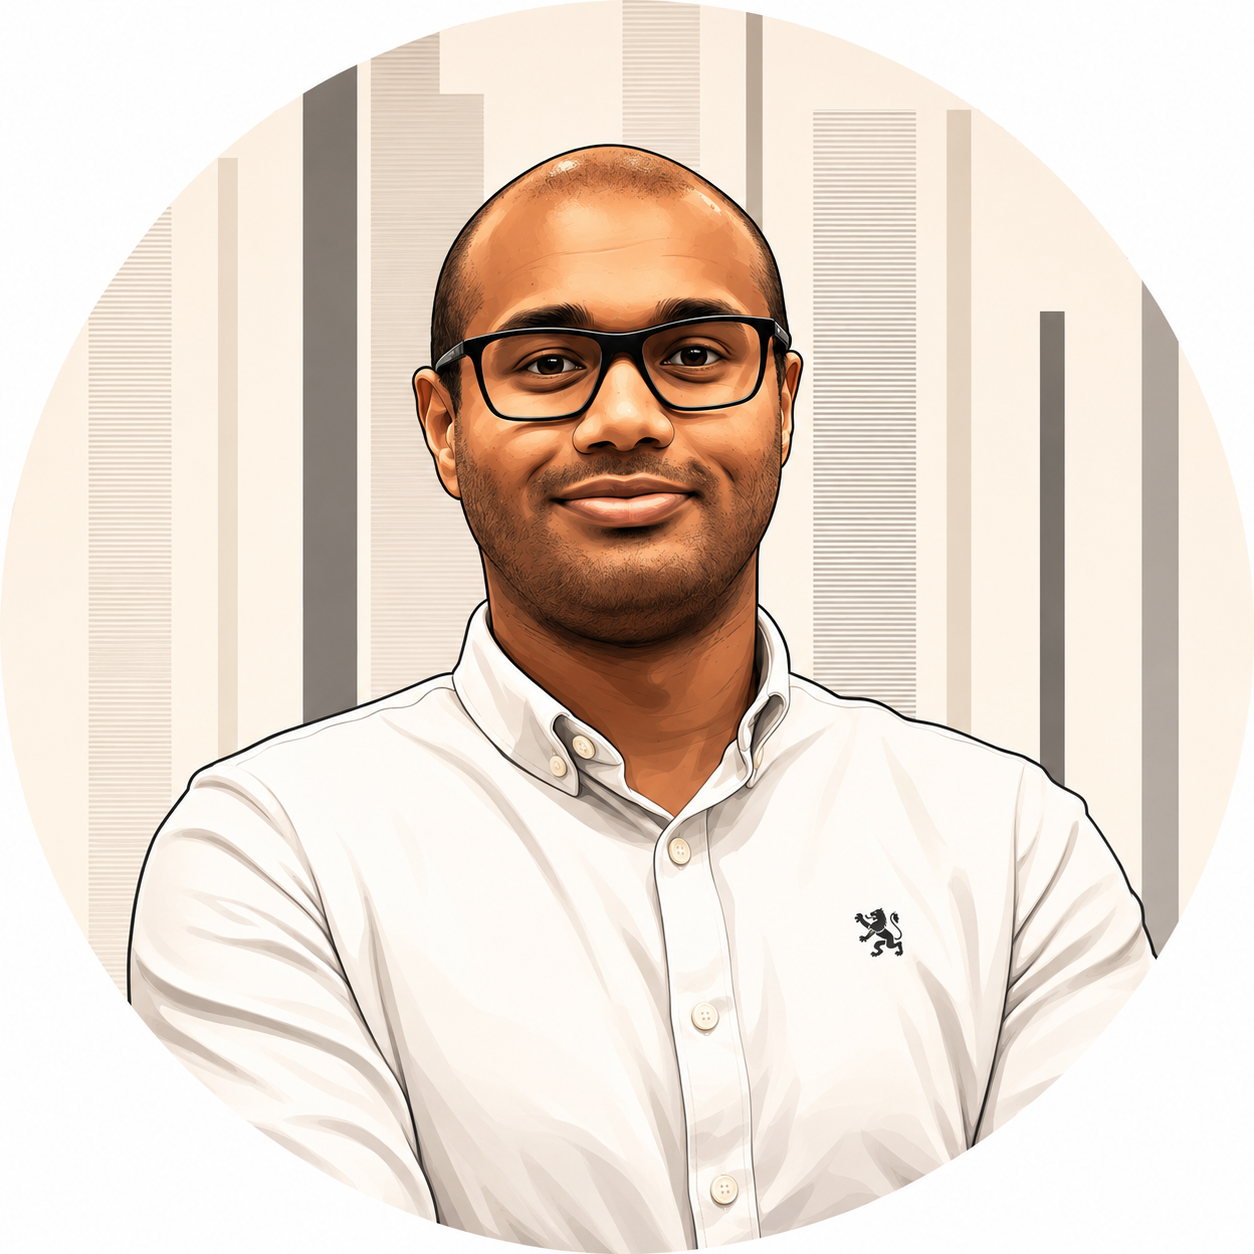
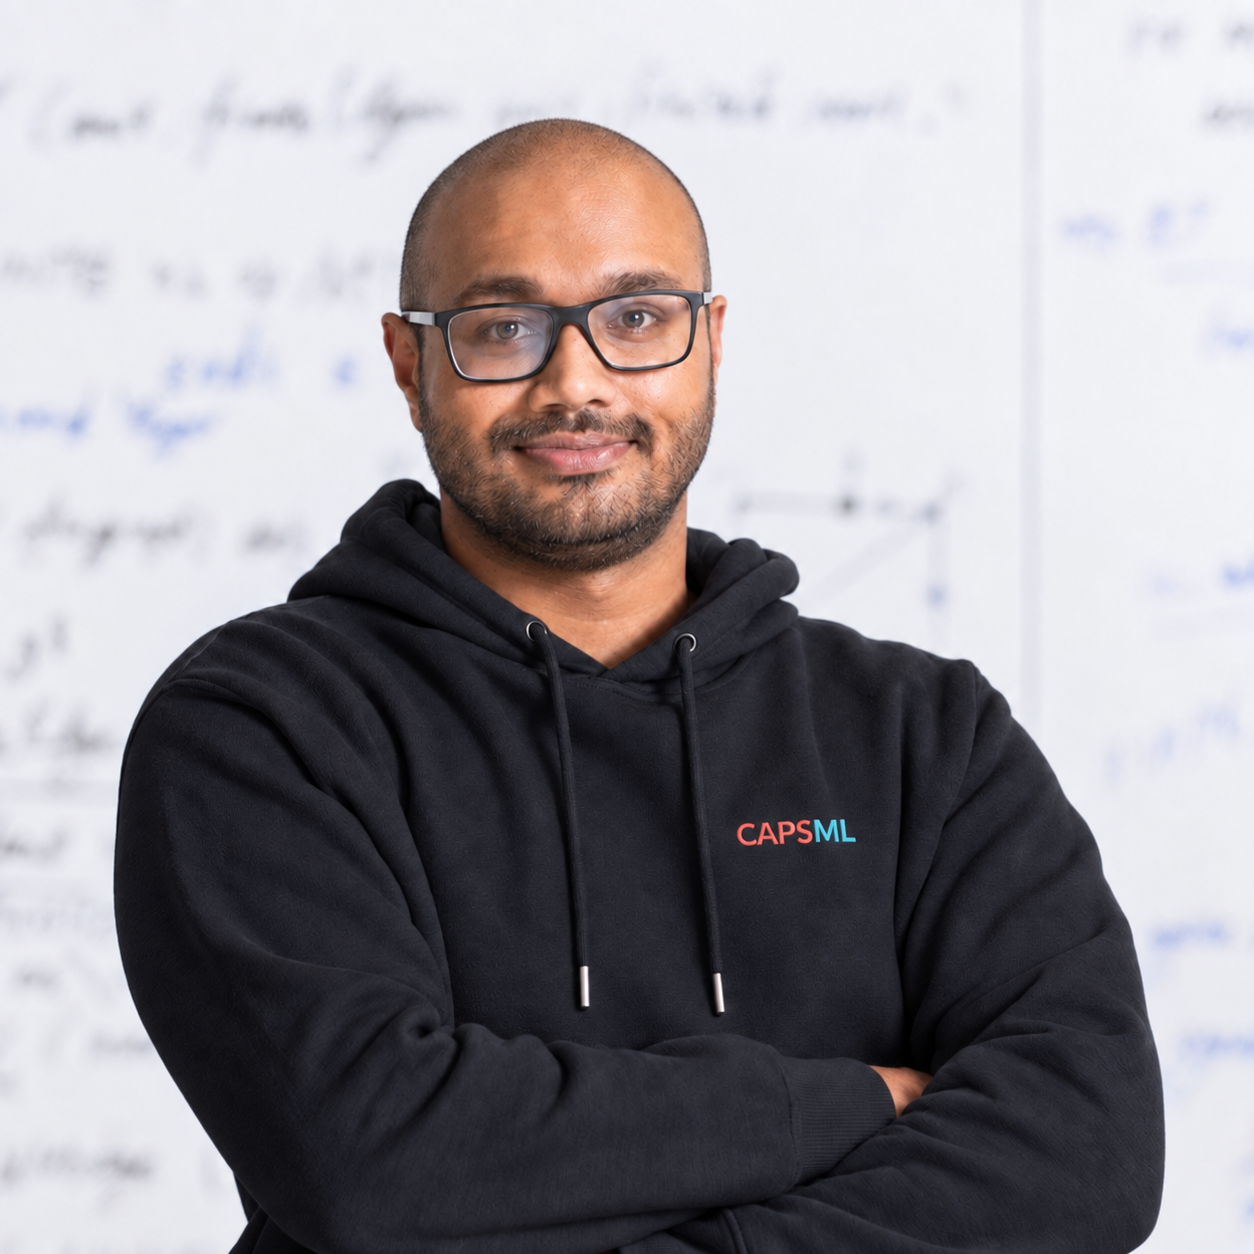
Update portrait and introduce research overview

diff --git a/tests/visual.spec.ts b/tests/visual.spec.ts
@@ -10,14 +10,14 @@ test('homepage has no console errors or horizontal overflow and saves review cap
 
   await page.goto('/');
   await page.locator('main').waitFor();
-  await page.evaluate(async () => {
-    for (let y = 0; y < document.body.scrollHeight; y += 600) {
-      window.scrollTo(0, y);
-      await new Promise((resolve) => setTimeout(resolve, 20));
-    }
-    window.scrollTo(0, 0);
-  });
-  await page.waitForFunction(() => Array.from(document.images).every((image) => image.complete));
+  // Load each lazy figure before capturing the whole page. Fast scrolling can
+  // skip them when CSS smooth scrolling is enabled, especially on mobile.
+  for (const image of await page.locator('img').all()) {
+    await image.scrollIntoViewIfNeeded();
+    await expect(image).toHaveJSProperty('complete', true);
+    expect(await image.evaluate((element) => (element as HTMLImageElement).naturalWidth)).toBeGreaterThan(0);
+  }
+  await page.evaluate(() => window.scrollTo({ top: 0, behavior: 'instant' }));
   const hasOverflow = await page.evaluate(() => document.documentElement.scrollWidth > document.documentElement.clientWidth);
   expect(hasOverflow).toBe(false);
   expect(consoleErrors).toEqual([]);

diff --git a/src/styles/global.css b/src/styles/global.css
@@ -256,13 +256,17 @@ main {
 }
 
 .intro {
-  padding-top: clamp(2.8rem, 7vw, 4.5rem);
-  padding-bottom: clamp(2.8rem, 7vw, 4.3rem);
+  padding-top: clamp(2rem, 4vw, 3rem);
+  padding-bottom: 1.5rem;
 }
 
 .intro h1 {
-  max-width: 18ch;
-  margin-top: 1.15rem;
+  max-width: 100%;
+  margin-top: 0.9rem;
+  font-size: clamp(1.45rem, 2.4vw, 2rem);
+  font-weight: 740;
+  line-height: 1.3;
+  text-wrap: balance;
 }
 
 .intro-summary {
@@ -270,6 +274,25 @@ main {
   margin-top: 1rem;
   color: #4f5762;
   font-size: 1.02rem;
+}
+
+.research-overview {
+  width: 100%;
+  max-width: 50rem;
+  margin: 1.8rem 0 0;
+}
+
+.research-overview img {
+  width: 100%;
+  height: auto;
+}
+
+.research-overview figcaption {
+  max-width: 78ch;
+  margin-top: 0.65rem;
+  color: var(--muted);
+  font-size: 0.8rem;
+  line-height: 1.55;
 }
 
 .conference-link {
@@ -1046,13 +1069,13 @@ main {
   }
 
   .intro {
-    padding-top: 2.2rem;
-    padding-bottom: 2.4rem;
+    padding-top: 1.65rem;
+    padding-bottom: 1.25rem;
   }
 
   .intro h1 {
-    margin-top: 0.9rem;
-    font-size: 1.85rem;
+    margin-top: 0.8rem;
+    font-size: 1.45rem;
   }
 
   .intro-summary {

diff --git a/IMPLEMENTATION_NOTES.md b/IMPLEMENTATION_NOTES.md
@@ -34,7 +34,8 @@ Push/merge performed: no
 
 ## Image provenance and handling
 
-- `src/assets/images/profile.png`: existing public profile image from the previous site. Astro generates a 112 px WebP derivative for the homepage; the 1.56 MB source is not embedded directly.
+- `src/assets/images/profile.png`: replaced on 4 October 2026 with the owner's supplied `CFDB5599-04DD-47D1-86C6-E16318C04A90.PNG`. Astro generates 112 px and 224 px WebP derivatives for the profile sidebar and mobile masthead; the original PNG is not served directly.
+- `src/assets/images/research-overview.png`: the owner's supplied `clt2.png`, explicitly requested for the homepage. It compares the closed-loop insulin-delivery and brain-stimulation research directions and appears immediately before Featured work. Astro generates responsive AVIF/WebP derivatives, with descriptive alt text and a concise explanatory caption.
 - `src/assets/images/neurostimenv-framework.png` and `neurostimenv-output.png`: public NeuroStimEnv repository assets. That repository is MIT licensed. The framework matches the owner's supplied reference and is shown at a readable width on the homepage as well as the detail page. Astro generates responsive AVIF/WebP outputs rather than serving the 5.9 MB source.
 - `src/assets/images/g2p2c-architecture.png`: public G2P2C repository asset (MIT licensed), used only on the detailed project page and optimized by Astro.
 - `src/assets/images/glucoenv.png`: existing site asset also referenced by the public GluCoEnv repository; used on the open-source systems detail page and optimized by Astro.
